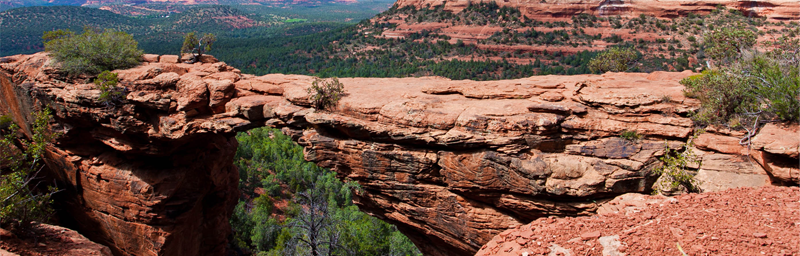
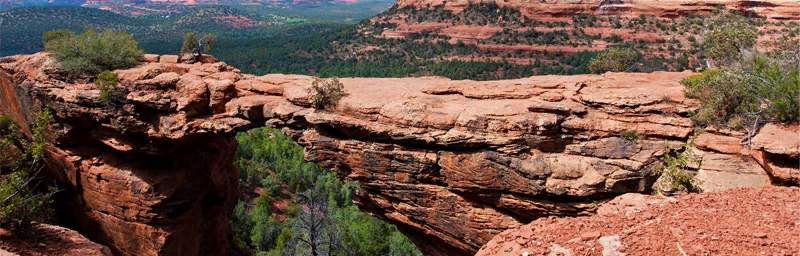
Добавление графики на сайт

diff --git a/index.html b/index.html
@@ -4,6 +4,7 @@
 <head>
   <meta charset="utf-8">
   <meta name="Sedona" content="">
+  <link rel="icon" href="Favicon.ico">
   <title>Sedona</title>
 </head>
 
@@ -15,7 +16,7 @@
         <li><a href="blank.html">Информация</a></li>
         <li><a href="blank.html">Фото и видео</a></li>
         <li><a href="blank.html">Карта штата</a></li>
-        <li><a href="blank.html">Гостиница</a></li>
+        <li><a href="catalog.html">Гостиницы</a></li>
       </ul>
 
     </nav>
@@ -24,9 +25,8 @@
   <main>
     <section>
       <h1>SEDONA</h1>
-      <img src="image/mainImg.png" alt="Главное изображение города Седона" width="1200" height="453">
-      <!--SVG???-->
-      <img src="image/EdgeMain.png" alt="Край главного изображения" width="1200" height="57">
+      <img src="image/mainImg.jpg" alt="Главное изображение города Седона" width="1200" height="453">
+
     </section>
     <section>
       <h3>Седона — небольшой городок в Аризоне,заслуживающий большего!</h3>
@@ -41,14 +41,17 @@
     <section>
       <ul>
         <li>
+          <img src="image/house.svg" width="74.69" height="72" alt="Рисунок дома">
           <h3>Жильё</h3>
           <p>Рекомендуем пожить в настоящем мотеле, всё как в кино!</p>
         </li>
         <li>
+          <img src="image/food.svg" width="74.07" height="69.96" alt="Еда, бургер">
           <h3>Еда</h3>
           <p>Всегда заказывайте фирменный бургер, вы не разочаруетесь!</p>
         </li>
         <li>
+          <img src="image/souvenirs.svg" width="63.98" height="76" alt="Подарок, сувенир">
           <h3>Сувениры</h3>
           <p>Не только китайского, но и местного производства!</p>
         </li>
@@ -86,11 +89,11 @@
       <form action="https://echo.htmlacademy.ru" method="POST">
         <p><label for="datearrival">Дата заезда:</label>
           <input type="text" id="datearrival" value="24 апреля 2017">
-          <img src="https://via.placeholder.com/21x22.04" alt="Календарь">
+          <img src="image/calendar.svg" alt="Календарь">
         </p>
         <p><label for="dateexit">Дата выезда:</label>
           <input id="dateexit" type="text" value="4 июля 2017">
-          <img src="https://via.placeholder.com/21x22.04" alt="Календарь">
+          <img src="image/calendar.svg" alt="Календарь">
         </p>
         <p><label for="adults">Взрослые:</label>
           <button type="button">-</button>
@@ -106,6 +109,8 @@
     </section>
     <section>
       <h4>Карта поиска гостиницы</h4>
+      <img src="image/map.jpg" width="1199" height="473"
+        alt="Местоположение Седона, между пересечением дорог: 89А и 179">
     </section>
   </main>
   <footer class="main-footer">
@@ -119,11 +124,10 @@
     <section>
       <h4>Контакты в социальных сетях</h4>
       <ul>
-        <li><a href="#">Твиттер</a></li>
-        <li><a href="#">Фейсбук</a>
-        </li>
+        <li><a href="#"><img src="image/twitter.svg" width="46" height="48" alt="Твиттер"></a></li>
+        <li><a href="#"><img src="image/facebook.svg" width="46" height="48" alt="Фейсбук"></a></li>
         <li>
-          <a href="#">Ютюб</a>
+          <a href="#"><img src="image/youtube.svg" width="46" height="48" alt="Ютюб"></a>
         </li>
       </ul>
     </section>
@@ -132,7 +136,6 @@
       <p>
         Website by <a href="https://htmlacademy.ru/intensive/htmlcss"><img src="image/logo_htmlacademy.png"
             alt="Сайт htmlacademy"></a>
-        <!--SVG изображение-->
       </p>
     </section>
   </footer>

diff --git a/catalog.html b/catalog.html
@@ -4,18 +4,20 @@
 <head>
     <meta charset="utf-8">
     <meta name="Sedona" content="">
+    <link rel="icon" href="Favicon.ico">
     <title>Каталог гостиниц Седона</title>
 </head>
 
 <body>
     <header class="main-header">
         <nav>
-            <a href="file:///H:/Sedona/1652933-sedona-31/index.html"><img src="image/logo.svg" alt="Логотип сайта Седона"></a>
+            <a href="file:///H:/Sedona/1652933-sedona-31/index.html"><img src="image/logo.svg"
+                    alt="Логотип сайта Седона"></a>
             <ul>
                 <li><a href="blank.html">Информация</a></li>
                 <li><a href="blank.html">Фото и видео</a></li>
                 <li><a href="blank.html">Карта штата</a></li>
-                <li><a href="catalog.html">Гостиница</a></li>
+                <li><a href="catalog.html">Гостиницы</a></li>
             </ul>
 
         </nav>
@@ -83,10 +85,10 @@
             <ul>
                 <!--Сортировка от большего к меньшему-->
                 <li>
-
+                    <img src="image/up.svg" width="11" height="10" alt="Сортировка по возрастанию">
                 </li>
                 <li>
-
+                    <img src="image/down.svg" width="11" height="10" alt="Сортировка по убыванию">
                 </li>
             </ul>
         </section>
@@ -100,7 +102,7 @@
             <a href="#">Подробнее</a>
             <a href="#">Забронировать</a>
             <div>
-                <!--Четыре звезды-->
+                <img src="image/star4.svg" width="91" height="17" alt="4 Звезды">
                 <span>Рейтинг: 8,5</span>
             </div>
         </article>
@@ -114,12 +116,12 @@
             <a href="#">Подробнее</a>
             <a href="#">Забронировать</a>
             <div>
-                <!--Три звезды-->
+                <img src="image/star3.svg" width="66" height="17" alt="Три звезды">
                 <span>Рейтинг: 8,9</span>
             </div>
         </article>
         <article>
-            <img src="image/apartments.png" width="135" height="90" alt="Villas at Poco Diablo апартаменты 2 звезды">
+            <img src="image/apartaments.jpg" width="135" height="90" alt="Villas at Poco Diablo апартаменты 2 звезды">
             <h3>Villas at Poco Diablo</h3>
             <div>
                 <span>Апартаменты</span>
@@ -128,7 +130,7 @@
             <a href="#">Подробнее</a>
             <a href="#">Забронировать</a>
             <div>
-                <!--Две звезды-->
+                <img src="image/star2.svg" width="42" height="17" alt="Две звезды">
                 <span>Рейтинг: 9,2</span>
             </div>
         </article>
@@ -144,11 +146,10 @@
         <section>
             <h4>Контакты в социальных сетях</h4>
             <ul>
-                <li><a href="#">Твиттер</a></li>
-                <li><a href="#">Фейсбук</a>
-                </li>
+                <li><a href="#"><img src="image/twitter.svg" width="46" height="48" alt="Твиттер"></a></li>
+                <li><a href="#"><img src="image/facebook.svg" width="46" height="48" alt="Фейсбук"></a></li>
                 <li>
-                    <a href="#">Ютюб</a>
+                    <a href="#"><img src="image/youtube.svg" width="46" height="48" alt="Ютюб"></a>
                 </li>
             </ul>
         </section>
